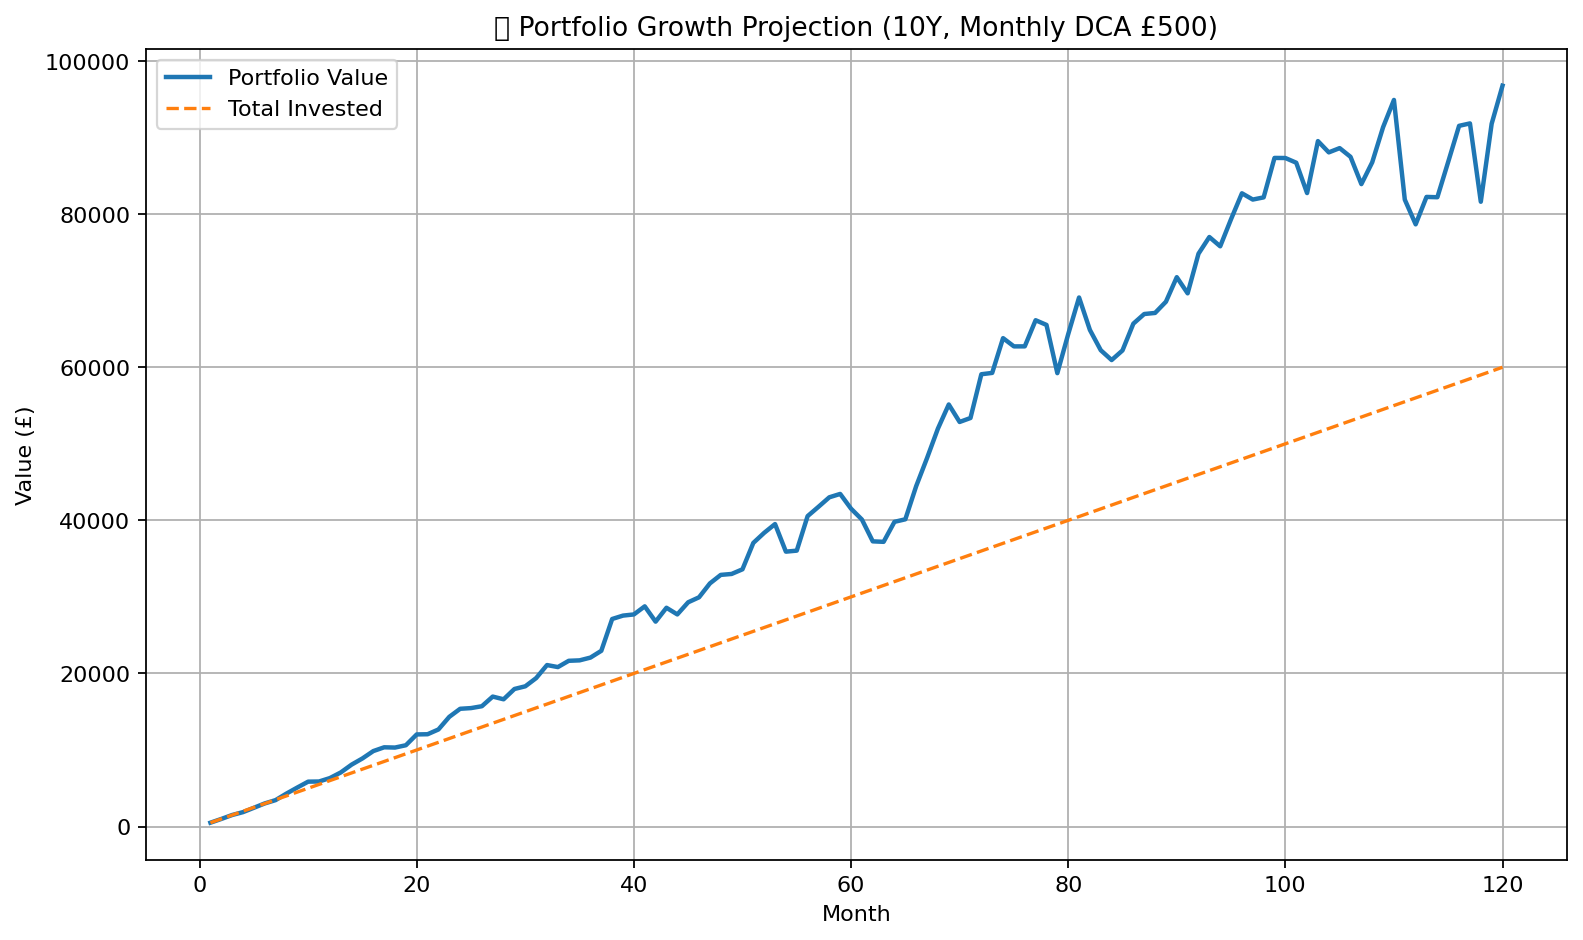
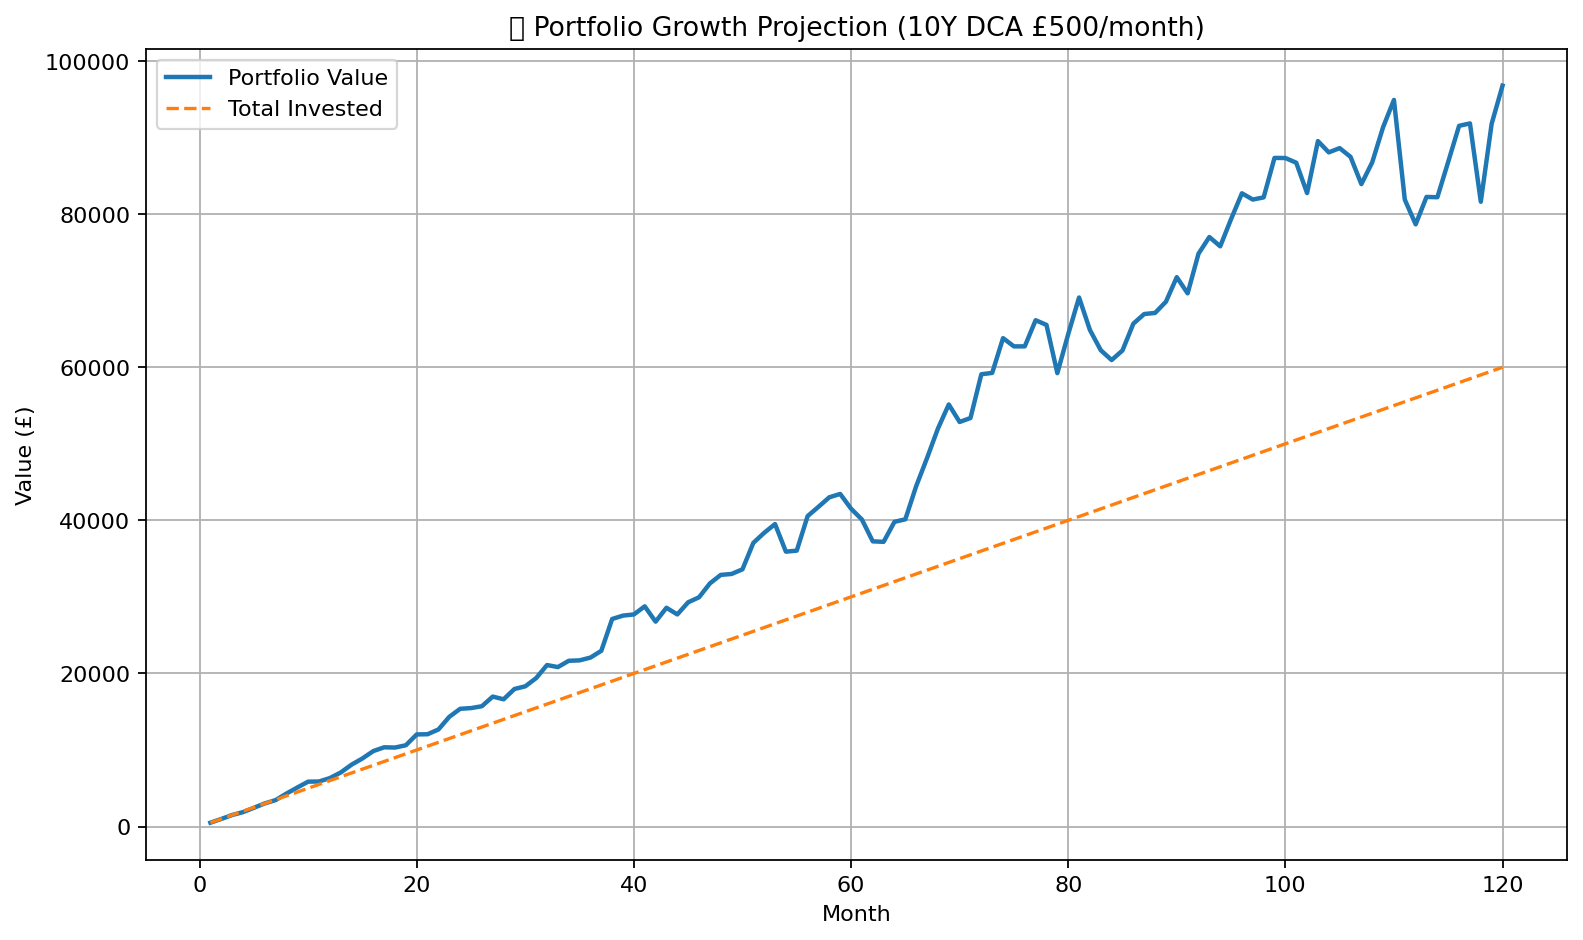
Add Personal Investing Playbook dashboard and Excel download

Changed region(s): [[0.3095, 0.0, 0.7738, 0.0617]]

diff --git a/index.html b/index.html
@@ -225,36 +225,31 @@
 </div>
 
 
-    <!-- Personal Investing Playbook modal (UPDATED) -->
+    <!-- Personal Investing Playbook modal -->
 <div id="modalPlaybook" class="modal" onclick="if(event.target===this)closeModal('modalPlaybook')">
   <div class="modal-content">
     <span class="close" onclick="closeModal('modalPlaybook')">&times;</span>
     <h3>💰 Personal Investing Playbook</h3>
     <p class="muted">
-      10-year Excel model simulating <b>dollar-cost averaging</b> into a diversified ETF portfolio with <b>automatic rebalancing</b> and <b>growth projection</b>.
-      Built in Python using <code>numpy</code>, <code>pandas</code>, and <code>matplotlib</code>.
+      Python + Excel model simulating <b>dollar-cost averaging (DCA)</b> into a 70/30 equity-bond portfolio over 10 years.
+      Tracks portfolio growth, rebalancing triggers, and return metrics using <code>numpy</code>, <code>pandas</code>, and <code>matplotlib</code>.
     </p>
     <ul class="muted">
-      <li>⚙ Logic: DCA £500 monthly, 70/30 equity-bond mix, 5% rebalance threshold</li>
-      <li>📈 Views: projected portfolio value vs. invested total</li>
-      <li>⚖ Rebalancing chart showing drift & rebalance events</li>
+      <li>⚙ Logic: Monthly £500 DCA, 5% rebalance threshold</li>
+      <li>📈 Growth: total portfolio vs total invested</li>
+      <li>⚖ Allocation drift + rebalance visualization</li>
       <li>📘 Output: downloadable Excel dashboard</li>
     </ul>
     <div class="charts-container">
-      <div>
-        <img src="assets/playbook_projection.png?v=2" alt="Projection Chart" loading="lazy" onerror="this.style.display='none'">
-        <p class="muted" style="font-size:.9rem;margin-top:4px;">Figure 1: 10-Year Portfolio Growth Projection (Monthly DCA)</p>
-      </div>
-      <div>
-        <img src="assets/playbook_rebalance.png?v=2" alt="Rebalancing Chart" loading="lazy" onerror="this.style.display='none'">
-        <p class="muted" style="font-size:.9rem;margin-top:4px;">Figure 2: Portfolio Rebalancing and Allocation Drift</p>
-      </div>
+      <img src="assets/playbook_projection.png?v=2" alt="Portfolio Growth Projection" loading="lazy" onerror="this.style.display='none'">
+      <img src="assets/playbook_rebalance.png?v=2" alt="Rebalancing and Allocation Drift" loading="lazy" onerror="this.style.display='none'">
     </div>
     <div style="margin-top:22px;text-align:center;">
       <a class="btn" href="Personal_Investing_Playbook.xlsx?v=2" target="_blank" rel="noopener" download>📥 Download Excel Dashboard</a>
     </div>
   </div>
 </div>
+
 
 
     <!-- Banking Crises & Stress Testing modal -->

diff --git a/personal_investing_playbook.py b/personal_investing_playbook.py
@@ -1,0 +1,137 @@
+# -*- coding: utf-8 -*-
+# 💰 Personal Investing Playbook — DCA, Rebalancing, and Excel Dashboard
+
+import os
+import numpy as np
+import pandas as pd
+import matplotlib.pyplot as plt
+
+# --- Setup ---
+os.makedirs("assets", exist_ok=True)
+plt.rcParams.update({"figure.dpi": 160, "axes.grid": True})
+pd.options.display.float_format = "{:,.2f}".format
+
+OUT_XLSX = "Personal_Investing_Playbook.xlsx"
+np.random.seed(42)
+
+# --- Portfolio Parameters ---
+years = 10
+months = years * 12
+monthly_contribution = 500
+initial_weights = np.array([0.7, 0.3])  # 70% equities, 30% bonds
+rebalance_threshold = 0.05
+
+# Simulated returns (monthly)
+mu = np.array([0.07, 0.03])  # annual means
+sigma = np.array([0.15, 0.05])
+rho = 0.2
+cov = np.outer(sigma, sigma) * rho
+np.fill_diagonal(cov, sigma ** 2)
+returns = np.random.multivariate_normal(mu / 12, cov / np.sqrt(12), months)
+
+# --- Simulate portfolio with DCA + rebalancing ---
+values = np.zeros((months, 2))
+total_portfolio = np.zeros(months)
+rebalances = []
+
+for i in range(months):
+    if i == 0:
+        values[i] = monthly_contribution * initial_weights
+    else:
+        values[i] = values[i - 1] * (1 + returns[i]) + monthly_contribution * initial_weights
+
+    total = values[i].sum()
+    total_portfolio[i] = total
+    weights_now = values[i] / total
+
+    if np.any(np.abs(weights_now - initial_weights) > rebalance_threshold):
+        rebalances.append(i)
+        values[i] = total * initial_weights  # rebalance
+
+# --- Build projection table ---
+total_invested = np.cumsum(np.full(months, monthly_contribution))
+growth = pd.DataFrame({
+    "Month": np.arange(1, months + 1),
+    "Equity": values[:, 0],
+    "Bond": values[:, 1],
+    "Total Portfolio": total_portfolio,
+    "Total Invested": total_invested,
+    "Net Gain": total_portfolio - total_invested,
+})
+growth["Year"] = np.ceil(growth["Month"] / 12).astype(int)
+
+# --- Summary stats ---
+final_value = total_portfolio[-1]
+final_invested = total_invested[-1]
+total_gain = final_value - final_invested
+annual_cagr = (final_value / final_invested) ** (1 / years) - 1
+
+summary = pd.DataFrame({
+    "Metric": ["Years", "Total Invested (£)", "Final Value (£)", "Net Gain (£)", "CAGR (%)"],
+    "Value": [years, final_invested, final_value, total_gain, annual_cagr * 100]
+})
+
+# --- Charts ---
+# Growth Projection
+plt.figure(figsize=(10, 6))
+plt.plot(growth["Month"], growth["Total Portfolio"], label="Portfolio Value", linewidth=2)
+plt.plot(growth["Month"], growth["Total Invested"], "--", label="Total Invested")
+plt.title("💰 Portfolio Growth Projection (10Y DCA £500/month)")
+plt.xlabel("Month")
+plt.ylabel("Value (£)")
+plt.legend()
+plt.tight_layout()
+plt.savefig("assets/playbook_projection.png", bbox_inches="tight", facecolor="white")
+plt.close()
+
+# Allocation Drift + Rebalancing
+plt.figure(figsize=(10, 5))
+plt.plot(growth["Month"], values[:, 0] / total_portfolio, label="Equity Weight (70%)")
+plt.plot(growth["Month"], values[:, 1] / total_portfolio, label="Bond Weight (30%)")
+for r in rebalances:
+    plt.axvline(r, color="gray", linestyle=":", alpha=0.5)
+plt.title("⚖ Allocation Drift and Rebalancing Points")
+plt.xlabel("Month")
+plt.ylabel("Portfolio Weight")
+plt.legend()
+plt.tight_layout()
+plt.savefig("assets/playbook_rebalance.png", bbox_inches="tight", facecolor="white")
+plt.close()
+
+# --- Excel Dashboard ---
+with pd.ExcelWriter(OUT_XLSX, engine="xlsxwriter") as writer:
+    growth.to_excel(writer, sheet_name="Projection", index=False)
+    summary.to_excel(writer, sheet_name="Summary", index=False)
+
+    wb = writer.book
+
+    # Styling
+    fmt_head = wb.add_format({"bold": True, "bg_color": "#DDEBF7", "border": 1, "font_color": "#1F4E79"})
+    ws_sum = writer.sheets["Summary"]
+    for i, col in enumerate(summary.columns):
+        ws_sum.write(0, i, col, fmt_head)
+        ws_sum.set_column(i, i, 22)
+
+    # Chart in Excel
+    ws_proj = writer.sheets["Projection"]
+    chart = wb.add_chart({"type": "line"})
+    chart.add_series({
+        "name": "Portfolio Value",
+        "categories": ["Projection", 1, 0, months, 0],
+        "values": ["Projection", 1, 3, months, 3],
+    })
+    chart.add_series({
+        "name": "Total Invested",
+        "categories": ["Projection", 1, 0, months, 0],
+        "values": ["Projection", 1, 4, months, 4],
+    })
+    chart.set_title({"name": "Portfolio Growth Projection"})
+    chart.set_x_axis({"name": "Month"})
+    chart.set_y_axis({"name": "£ Value"})
+    chart.set_legend({"position": "bottom"})
+    ws_proj.insert_chart("H2", chart)
+
+print(f"✅ Excel dashboard written to: {OUT_XLSX}")
+print("🖼 Charts saved:")
+print("   - assets/playbook_projection.png")
+print("   - assets/playbook_rebalance.png")
